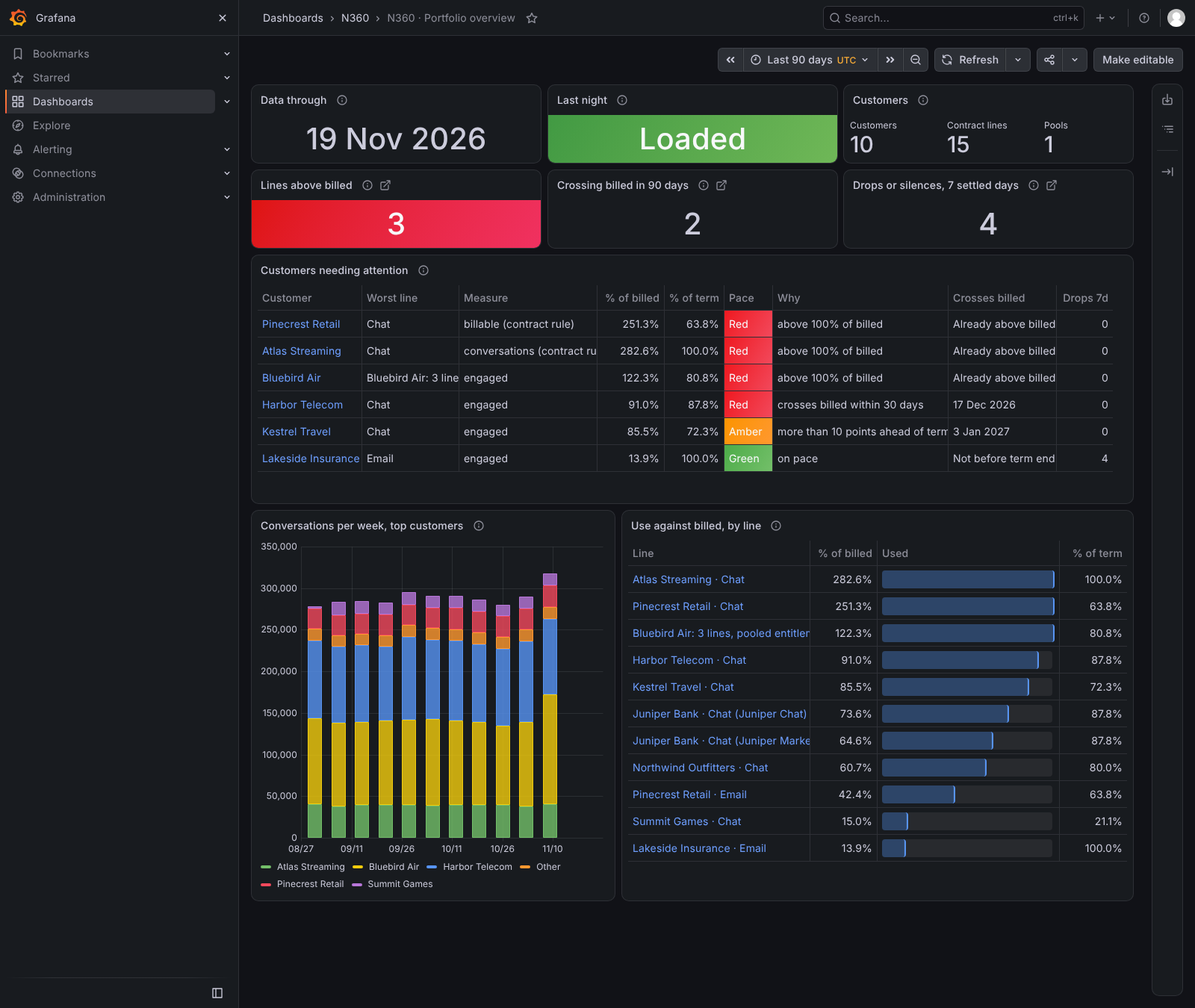
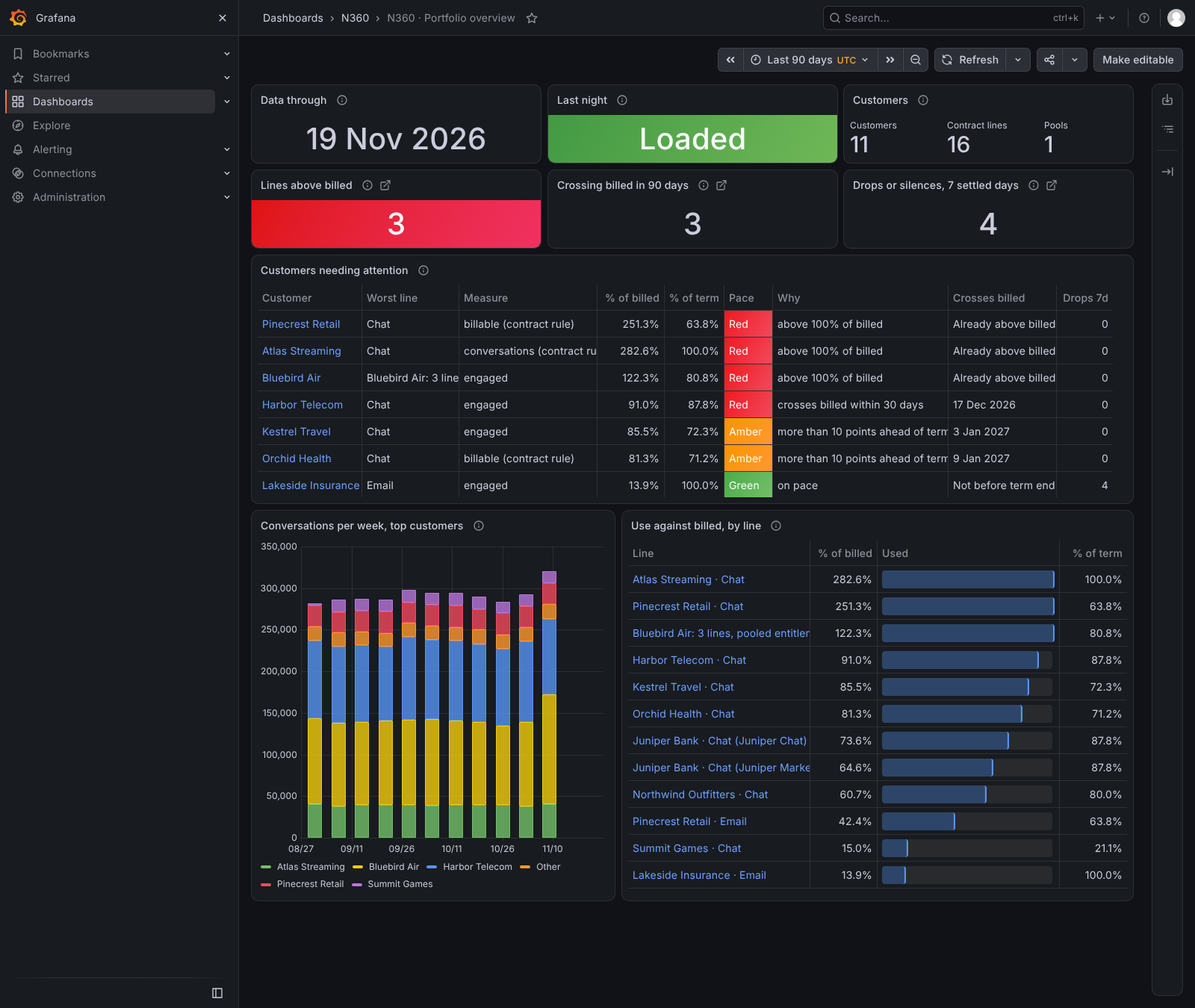
B15-B21 docs: CHANGES, README, 02/04/05/06/08, chat instructions, challenger report, screenshots
Claude-Session: https://claude.ai/code/session_01FH8A8xL2sSWvmn9qckrom6

diff --git a/code/grafana/build_dashboards.py b/code/grafana/build_dashboards.py
@@ -1001,13 +1001,13 @@ def forecast():
                    round(sumIf(mape * forecasts, horizon_days = 90) / sumIf(forecasts, horizon_days = 90), 1),
                    sumIf(forecasts, horizon_days = 30)
             FROM n360.v_forecast_accuracy WHERE {ACCT} HAVING sumIf(forecasts, horizon_days = 30) > 0
-        ) ORDER BY o, Line""", 0, 33, 12, 10,
+        ) ORDER BY o, Line""", 0, 33, 24, 13,
         describe('How far the stored forecast was off: forecasts made 30, 60 and 90 days earlier against what was then '
                  'used (mean absolute % error; lower is better). The forecast is evaluated as stored, never refitted. '
                  'Shows once forecasts 30 days old are stored.', 'n360.v_forecast_accuracy (n360.forecast_history)',
                  'Customer; lines and pools with a billed amount', 'every stored night'),
         field=field_config([*[override(c, ('unit', 'percent'), ('decimals', 1)) for c in ('30 days', '60 days', '90 days')],
-                            count_col('Forecasts'), width('Line', 300)],
+                            count_col('Forecasts'), width('Line', 380)],
                            noValue='Shows once forecasts 30 days old are stored'),
         may_be_empty='fewer than 30 nights of stored forecasts'))
     p.append(panel(10, 'Crossing date drift', 'table', f"""
@@ -1018,21 +1018,21 @@ def forecast():
         FROM n360.v_forecast_drift AS d
         INNER JOIN n360.v_line_pace AS pc ON pc.series_key = d.series_key
         INNER JOIN n360.account AS a ON a.account = d.account
-        WHERE d.{ACCT} ORDER BY ifNull(d.moved_7, 0)""", 12, 33, 12, 10,
+        WHERE d.{ACCT} ORDER BY ifNull(d.moved_7, 0)""", 0, 46, 24, 8,
         describe('Where each line\'s crossing date stood 7 and 30 stored nights ago, and how many days it has moved '
                  '(negative = earlier). Empty where the forecast had no crossing date then ("Not reported yet" = no '
                  'crossing before the term end, or not stored).', 'n360.v_forecast_drift (n360.forecast_history)',
                  'Customer; lines that cross billed now or did then', 'stored nights'),
         field=field_config([*[override(c, ('mappings', [empty_grey()])) for c in
                               ('Crosses billed', '7 nights ago', '30 nights ago', 'Moved, 7 nights', 'Moved, 30 nights')],
-                            width('Line', 240)], noValue='No line crosses billed'),
+                            width('Line', 380)], noValue='No line crosses billed'),
         may_be_empty='no line crosses billed'))
     p.append(panel(11, 'Challenger backtest (comparison only)', 'table', """
         SELECT concat(toString(horizon_days), ' days') AS Horizon,
                anyIf(mape, model = 'straight line') AS `Straight line (forecast of record)`,
                anyIf(mape, model = 'weekday HW') AS `Weekday Holt-Winters (challenger)`,
                maxIf(forecasts, model = 'straight line') AS Forecasts, toString(any(data_through)) AS `Data through`
-        FROM n360.v_challenger_backtest GROUP BY horizon_days ORDER BY horizon_days""", 0, 43, 24, 6,
+        FROM n360.v_challenger_backtest GROUP BY horizon_days ORDER BY horizon_days""", 0, 54, 24, 6,
         describe('Mean absolute % error of each model when backtested at weekly cutoffs over the loaded history (all '
                  'lines and pools). The straight line stays the forecast of record; the challenger replaces it only if '
                  'it has the better 30-day MAPE on most lines for 8 straight weeks AND Ryan approves (08). Run '
@@ -1093,12 +1093,16 @@ def anomalies():
         WHERE f.{ACCT} AND {kind_sql.replace('kind', 'f.kind').replace('${f.kind', '${kind')} AND {prov_sql.replace('provisional OR', 'f.provisional OR')} AND $__dateFilter(f.day)
         ORDER BY f.day DESC""", 0, 12, 24, 9,
         describe('Every flagged VA-day of the chosen kind in the time range, with its review outcome (real / expected / '
-                 'data issue; "Not reported yet" = not reviewed). Reviews are recorded with code/review_anomaly.py. '
+                 'data issue, or "Not reviewed"). Reviews are recorded with code/review_anomaly.py. '
                  'Click a VA to open it.', 'n360.v_anomaly_review (n360.v_va_day_anomaly, n360.anomaly_log)',
                  'Customer; Kind; Include provisional', 'dashboard time range'),
         field=field_config([hidden('drill'), count_col('Actual'), count_col('Expected'), override('z', ('decimals', 1)),
-                            override('Review', ('mappings', label_colours(REVIEW_LABEL) + [empty_grey()]),
-                                     ('custom.cellOptions', {'type': 'color-text'})), width('Review', 110),
+                            override('Note', ('mappings', [{'type': 'special', 'options': {'match': 'null', 'result': {'text': '', 'index': 0}}}])),
+                            override('Review', ('mappings', label_colours(REVIEW_LABEL) + [{'type': 'special', 'options': {
+                                'match': 'null', 'result': {'text': 'Not reviewed', 'color': COLOUR['grey'], 'index': 9}}}]),
+                                     ('custom.cellOptions', {'type': 'color-text'})), width('Review', 100),
+                            width('Day', 110), width('Customer', 150), width('VA', 170), width('Actual', 70),
+                            width('Expected', 80), width('z', 60), width('Kind', 100), width('Status', 90),
                             override('Status', ('mappings', label_colours({'Provisional': ('Provisional', 'amber'),
                                                                           'Settled': ('Settled', 'red')})),
                                      ('custom.cellOptions', {'type': 'color-text'})),
@@ -1117,18 +1121,18 @@ def anomalies():
                            noValue='No cross-account events'), may_be_empty='no cross-account event in the range'))
     p.append(panel(9, 'Other signals: containment, measure, pace, freshness', 'table', f"""
         SELECT v2.signal AS Signal, ifNull(ac.display_name, '') AS Customer, v2.subject AS Subject, {date_sql('v2.period')} AS `When`,
-               v2.value AS Value, v2.usual AS Usual, v2.detail AS Detail
+               v2.value AS `This period`, v2.usual AS Usual, v2.detail AS Detail
         FROM n360.v_anomaly_v2 AS v2 LEFT JOIN n360.account AS ac ON ac.account = v2.account
         WHERE (v2.account = '' OR v2.{ACCT}) AND v2.period > {DATA_THROUGH_SQL} - 60
         ORDER BY v2.period DESC""", 0, 35, 24, 7,
         describe('Anomaly detection v2 (05): a VA\'s weekly containment more than 10 points below its 8-week median '
                  '(on 200+ engaged); a rule line\'s measure share of engaged more than 20 points from its usual level; '
-                 'a crossing date moved more than 14 days earlier overnight; a source 2+ days behind. Value and Usual '
-                 'are % (days for pace change). Thresholds in n360.settings. Complete weeks only.',
+                 'a crossing date moved more than 14 days earlier overnight; a source 2+ days behind. "This period" and '
+                 '"Usual" are % (days moved, for pace change). Thresholds in n360.settings. Complete weeks only.',
                  'n360.v_anomaly_v2 (v_containment_week, v_measure_gap_week, v_forecast_change, v_source_freshness)',
                  'Customer', 'the 60 days to the data-through day'),
-        field=field_config([width('Signal', 140), width('Customer', 140), width('When', 110), width('Value', 70),
-                            width('Usual', 70), override('Usual', ('mappings', [{'type': 'special', 'options': {
+        field=field_config([width('Signal', 140), width('Customer', 140), width('When', 110), width('This period', 95),
+                            width('Usual', 80), width('Subject', 260), override('Usual', ('mappings', [{'type': 'special', 'options': {
                                 'match': 'null', 'result': {'text': '', 'index': 0}}}]))],
                            noValue='No other signals in the last 60 days'),
         may_be_empty='no v2 signal in the last 60 days'))

diff --git a/docs/04_DASHBOARDS.md b/docs/04_DASHBOARDS.md
@@ -46,8 +46,8 @@ detail to build from. Build against the spec. Ryan will reconcile with the appro
 | Red | Above 100% of billed, or crossing billed within 30 days |
 | Grey | Not measurable, not implemented, or not read |
 
-The view decides the colour (decided 24 Nov 2026): `n360.v_line_pace` holds the four thresholds at its top, the
-only place they exist. `build_dashboards.py` maps the view's `pace` label to a display colour (`PACE_LABEL`).
+The view decides the colour (decided 24 Nov 2026): `n360.v_line_pace` reads the four thresholds from `n360.settings`,
+the one view that holds every proposed threshold. `build_dashboards.py` maps the view's `pace` label to a display colour (`PACE_LABEL`).
 
 ## 1. Portfolio overview · `n360-overview` (BUILT 24 Nov 2026, B6)
 Question: which customers need attention this week, and why? Audience: leadership.
@@ -89,12 +89,12 @@ Stats: status (Normal / Went silent / …), conversations 30d, typical weekday (
 Data through, lines above billed, contract lines table, pools, daily use per line, containment per VA weekly, with pace colours, data links, header and Back link. Fixed: lines above billed now counts the pool; not measurable lines are not plotted; "Contract unit" says "Sheet terms" where no SOW overrides; thousands separators, dates as "4 Dec 2026", clean series names.
 
 ## 6. Forecast and runway · `n360-forecast` (BUILT, B11)
-Differences: the runway's contract-end tick is a change of shade (dark after the term end). Forecast accuracy is a note until `forecast_history` exists (B15).
+Differences: the runway's contract-end tick is a change of shade (dark after the term end). Forecast accuracy (6.5) and crossing-date drift (6.6) built from `forecast_history` (B15–B16), plus a challenger backtest panel (B21).
 
 Stats: crossing in 30 / 60 / 90 days, already above billed, step changes. Panels: runway timeline (one lane per line, bar from today to runs-out date, tick at contract end; colours: red crosses ≤30 days, blue crosses before term end, grey runs out after term end); runway table (line, used, billed, rate, runs out, term ends, note; flag when the term end has already passed); step changes table (last-30 vs term %, "rising"/"falling"/"stopped"); forecast accuracy (needs `forecast_history`; show a note until 30 nights).
 
 ## 7. Anomalies · `n360-anomalies` (BUILT, B12)
-Differences: the heatmap is a state timeline (one lane per flagged VA); not-scored days are blank. Review column is "Not reported yet" until the anomaly log (B19). Cross-account events are split by direction (spikes vs drops/silences).
+Differences: the heatmap is a state timeline (one lane per flagged VA); not-scored days are blank. Review column from the anomaly log (B19: "Not reviewed" until recorded with `code/review_anomaly.py`); flag quality per week; anomaly v2 signals (B20). Cross-account events are split by direction (spikes vs drops/silences).
 
 Controls: kind (drops and silences / spikes), include provisional (No default / Yes). Stats: drops, silences, spikes (7 settled days), provisional count. Panels: heatmap VA × day (30 days, VAs flagged in the window; colour by z: red ≤ −4 or silent, dark red −4..−2, neutral, dark blue 2..4, blue ≥ 4, near-black not scored; provisional columns faded); anomaly feed (day, customer, VA, actual, expected, z, kind, status, review) with VA drill; same-day events across customers (grouped); settled flags per week (stacked: drops+silences, spikes).
 
@@ -112,6 +112,6 @@ Engine version per VA (green = V8 or later); V8 playbooks vs legacy intents; pla
 Tickets by product area; top asks (several customers wanting the same thing); tickets by customer; "Not tagged yet" list (tagged by hand, never automatically).
 
 ## 11. Pipeline health · `n360-pipeline` (BUILT, B14)
-Differences: "ran, not loaded" (orange) cannot show: a run that errors before logging (loader exit 2) writes nothing to `runs`, so it shows as "no run". Hover shows the status, not the failed checks (they are in "Why nights stopped").
+Differences: "ran, not loaded" (orange) cannot show: a run that errors before logging (loader exit 2) writes nothing to `runs`, so it shows as "no run". Hover shows the status, not the failed checks (they are in "Why nights stopped"). Freshness history per night (B17).
 
 Stats: last night result, data through, nights loaded of last 14, checks passed on last load, stale sources. Panels: runs, last 14 nights (one block per night: loaded green, stopped red, ran-not-loaded orange, no run grey; hover shows reason); why nights stopped (table); source freshness (last day, days behind: amber 2, red 3); contract measure mix (lines per measure; rules not live).

diff --git a/CHANGES.md b/CHANGES.md
@@ -1,3 +1,37 @@
+# CHANGES · 24 Nov 2026 · B15–B21 (history, accuracy, freshness, alerts, review log, anomaly v2, challenger)
+
+**The backlog is done: every item B1–B23 is built and tested on synthetic data.** What is left is company-side
+work and the open questions in `08`.
+
+| Item | What was built | Tested |
+|---|---|---|
+| Settings | `n360.settings`: every proposed threshold in one view (pace, anomaly, freshness, engine, asks, v2); all views read it | View tests unchanged |
+| B15 | `forecast_history`, copied by `load.py` from the forecast of record after each swap (no pipeline change); optional backfill file; generator `--forecast-backfill DAYS` | One row per line/pool per loaded night (13 of 14 nights; the refused night has none) |
+| B16 | `v_forecast_accuracy` (MAPE at 30/60/90 days: the stored forecast evaluated, never refitted), `v_forecast_change`, `v_forecast_drift`; Forecast panels 6.5, 6.6 | Harbor Chat MAPE recomputed by hand in Python matches the view |
+| B17 | `source_freshness` (per night); Pipeline "Days behind, night by night"; generator `--stale SOURCE=DAYS` | 2 days behind → amber, 3 → red |
+| B18 | 7 alert rules as code (`build_alerts.py` → `provisioning/alerting/`): load failed, data stale, source stale, VA silent/dropped, cross-account event, newly over billed, crossing soon; placeholder contact points routed by audience | Rule queries checked after nights 7, 9, 11, 12 and final, plus two stale cases. A provisional-only silence does not fire. In Grafana 13.3.1 all 7 load healthy; Lakeside, Data stale and (after a bad night) Load failed fire |
+| B19 | `anomaly_log` (the nightly load never touches it), `code/review_anomaly.py`, `v_anomaly_review` (newest review wins), `v_flag_quality`; Anomalies "Review" and "Flag quality per week" | Outcomes join back to flags; week of 9 Nov: 3 reviewed, 1 real, 1 expected, 1 data issue |
+| B20 | `v_containment_week`, `v_measure_gap_week`, `v_anomaly_v2` (plus pace change and freshness); Anomalies "Other signals" | New synthetic customer Orchid Health carries the planted cases: exactly 3 signals, none elsewhere |
+| B21 | `code/forecast/challenger.py`: weekday Holt-Winters against the straight line at weekly cutoffs; writes `forecast_challenger` and `docs/10_CHALLENGER_BACKTEST.md`; Forecast panel | CI fails if `n360.forecast` changes (checksum). Result: the challenger is worse overall (90 days: 3.9% vs 1.3% MAPE) but better on most lines at 30 days for 6 straight weeks; not adopted |
+
+**Bugs found on the way (fixed):**
+- `runs.loaded_at` has one-second precision, so loads in the same second tied and "the latest run" could be an older night (now broken by `data_date`). Found by server-mode CI.
+- Two reviews of one flag in the same second tied the same way (`anomaly_log.reviewed_at` is now milliseconds).
+- Alias collisions and a correlated join that ClickHouse refuses.
+
+**Synthetic data:** added **Orchid Health** (anomaly v2 cases). Existing customers' numbers are unchanged in multi-night
+mode; customer count is now 11.
+
+**New open questions in `08`:** alert recipients and timing (placeholders now); anomaly v2 thresholds; challenger
+settings; who may record reviews.
+
+| Check | Result |
+|---|---|
+| `ci.sh chdb`, `ci.sh server` | Pass: loads, all view tests (B5, B15, B16, B19, B20, Phase 2), alert scenarios, stale scenarios, challenger checksum, dashboards and alert rules regenerate identically, every panel query as Grafana's read-only user |
+| Grafana 13.3.1 | Forecast, Anomalies, Pipeline render (screenshots updated); alert rules provisioned and evaluated |
+
+---
+
 # CHANGES · 24 Nov 2026 · all 11 dashboards (B7–B14, B10, Phase 2 B22–B23)
 
 **Every dashboard in `04` is built, rendered in Grafana 13.3.1 on synthetic data, and every drill-down link was

diff --git a/README.md b/README.md
@@ -38,7 +38,12 @@ anomaly detection and forecasting built in.
 | Dashboard generator: **all 11 dashboards** | `code/grafana/build_dashboards.py` → `code/grafana/dashboards/*.json` | Built and rendered in Grafana 13.3.1 with plugin 4.23.5 on synthetic data; every drill-down link clicked. Phase 2 (Adoption, Requests) on a proposed design |
 | Building-block test | `code/grafana/test_build.py` | Settings written once; description shape; sample header, links and colours run and render |
 | Panel query test | `code/grafana/test_panels.py` | Runs every panel and variable query with macros expanded |
-| Synthetic data, one night or N nights | `sample_data/generate_synthetic.py` (`--nights`, `--bad-night`) | Done; 14 nights → 13 loaded, 1 refused |
+| Synthetic data, one night or N nights | `sample_data/generate_synthetic.py` (`--nights`, `--bad-night`, `--forecast-backfill`, `--stale`) | Done; 14 nights → 13 loaded, 1 refused |
+| Forecast history and accuracy (B15–B16) | `forecast_history`, `v_forecast_accuracy` | Built; Forecast panels 6.5, 6.6 |
+| Alert rules as code (B18) | `code/grafana/build_alerts.py` → `provisioning/alerting/`; `test_alerts.py` | 7 rules load and fire in Grafana on synthetic failures; recipients are placeholders |
+| Anomaly review log (B19) | `code/review_anomaly.py`, `anomaly_log` | Built; Anomalies feed and weekly flag quality |
+| Anomaly detection v2 (B20) | `v_anomaly_v2` | Built; planted cases caught, no false positives |
+| Challenger forecast (B21) | `code/forecast/challenger.py`, `docs/10_CHALLENGER_BACKTEST.md` | Backtest only; the forecast of record is unchanged |
 | CI | `.github/workflows/ci.yml`, `code/ci.sh` | Steps pass locally (chdb and server 25.8); not yet run on GitHub |
 | Chat with the data | `docs/09_CHAT.md`, `chat/`, `code/grafana/mcp_service_account.sh` | Tested on synthetic through Grafana; real data is an open question |
 
@@ -54,6 +59,7 @@ anomaly detection and forecasting built in.
 | `docs/06_BACKLOG.md` | What to build next, in order, with acceptance criteria |
 | `docs/07_WORKING_RULES.md` | How Ryan wants work done. Non-negotiable |
 | `docs/08_DECISIONS.md` | Decided, proposed, and open questions |
+| `docs/10_CHALLENGER_BACKTEST.md` | Challenger vs straight-line backtest (synthetic), regenerated by `code/forecast/challenger.py` |
 | `docs/09_CHAT.md` | Chatting with the data through Grafana's MCP server: setup, locks, test |
 
 ## First 15 minutes

diff --git a/docs/08_DECISIONS.md b/docs/08_DECISIONS.md
@@ -26,7 +26,7 @@
 
 | Item | Proposal |
 |---|---|
-| Pace colours (values at the top of `v_line_pace`) | Green ≤ term + 10 pts; amber > term + 10 or crossing ≤ 60 d; red > 100% or crossing ≤ 30 d; grey not measurable / not implemented / not read |
+| Pace colours (values in `n360.settings`) | Green ≤ term + 10 pts; amber > term + 10 or crossing ≤ 60 d; red > 100% or crossing ≤ 30 d; grey not measurable / not implemented / not read |
 | Anomaly thresholds | Same weekday 8 weeks; z ≤ −4 / ≥ 4; min median 20; provisional 3 days |
 | Alert routing and timing | As in `05_ANOMALY_AND_FORECAST.md` |
 | Challenger adoption bar | Better 30-day MAPE on most lines for 8 straight weeks, plus Ryan's approval |
@@ -47,4 +47,8 @@
 | Does the pipeline count usage after a line's end date? (synthetic does: Atlas 282.6% all days vs 268.4% within term) | Views follow `reported_measured` as given |
 | Pace for an entitlement whose term has ended (synthetic: Lakeside ended 31 Oct at 13.9% of billed shows green "on pace") | `v_line_pace` reports `term_ended`; the colour follows the proposed rule, which says nothing about ended terms |
 | Cross-account events: should spikes and drops on the same day be one event or two? | Built as two (by direction); one line to change |
+| Who receives alerts, and when (contact points are `example.invalid` placeholders; daily / weekly timing approximated by repeat intervals) | Set addresses and delivery windows in `build_alerts.py` |
+| Anomaly v2 thresholds (containment drop 10 pts on 200+ engaged; measure gap 20 pts; pace change 14 days) | Built as `05` says, in `n360.settings`, proposed |
+| Challenger model settings (Holt-Winters alpha 0.2, beta 0.01, gamma 0.2, 365-day fit) | First guesses; it does not beat the straight line overall on synthetic data (`10_CHALLENGER_BACKTEST.md`) |
+| Who may record anomaly reviews (loader user via `code/review_anomaly.py`; Grafana OSS cannot write) | Fine for one owner; a team needs its own way in |
 | Term-end convention: synthetic ends a 12-month line on the last day of the month before its start month (29 Jan start → 31 Dec end; pool ends 28 Jan) | Check against the contract sheet before trusting % of term |

diff --git a/docs/02_DATA_CONTRACT.md b/docs/02_DATA_CONTRACT.md
@@ -108,6 +108,11 @@ definition changes `rule_hash`.
 | `v_customer_attention` | One row per customer: worst entitlement by pace, counts of red and amber entitlements, drops and silences and spikes in the 7 newest settled days, provisional flags |
 | `v_anomaly_heat` | Heatmap band per VA-day for the Anomalies dashboard (watch band ±2; flags from `v_va_day_anomaly`) |
 | `v_source_freshness` | Days each source is behind the data-through day; green / amber (2) / red (3) |
+| `settings` | Every proposed threshold, one row (pace, anomaly, freshness, engine, asks, anomaly v2). Views read it |
+| `v_forecast_accuracy`, `v_forecast_change`, `v_forecast_drift` | Forecast MAPE at 30/60/90 days; night over night changes; crossing-date drift (B16) |
+| `v_anomaly_review`, `v_flag_quality` | Flags with their newest review; weekly flag quality (B19) |
+| `v_containment_week`, `v_measure_gap_week`, `v_anomaly_v2` | Anomaly detection v2 signals (B20) |
+| `v_challenger_backtest` | Newest challenger backtest MAPE per model and horizon (B21) |
 | `v_anomaly_events` | Cross-account events: the same settled day and direction (spikes, or drops and silences) flagged on 3 or more accounts |
 
 ## Keys and joins
@@ -132,6 +137,15 @@ definition changes `rule_hash`.
 | facts_end_on_last_day | A fact table does not end on the data-through day |
 | crosswalk_vas_known | A VA on a line has no VA row |
 | facts_not_empty | A core table is empty |
+
+## History and review tables (B15–B21, 24 Nov 2026; never swapped)
+
+| Table | Written by | Grain |
+|---|---|---|
+| `forecast_history` | `load.py` after each swap (copy of `forecast`), optional backfill file | Line or pool × night |
+| `source_freshness` | `load.py` after each swap (copy of `source`) | Source × night |
+| `anomaly_log` | `code/review_anomaly.py` (loader user) | Flag × review; newest wins |
+| `forecast_challenger` | `code/forecast/challenger.py` | Backtest prediction (run × model × series × cutoff × horizon) |
 
 ## Phase 2 tables (designed 24 Nov 2026, proposed; see `schema.sql`)
 

diff --git a/docs/05_ANOMALY_AND_FORECAST.md b/docs/05_ANOMALY_AND_FORECAST.md
@@ -24,7 +24,7 @@ first guesses; they are tuned monthly from review outcomes.
   spikes grouped apart from drops and silences).
 - The newest 0–2 days produce most false drops (data still settling). Provisional days never alert.
 
-## Anomaly detection v2 (planned; build and test on synthetic)
+## Anomaly detection v2 (built 24 Nov 2026, B20: `v_anomaly_v2`; thresholds in `n360.settings`; tested on planted synthetic cases)
 
 | Signal | Rule |
 |---|---|
@@ -48,7 +48,12 @@ SQL.** `generate_synthetic.py::forecast_row` reproduces it exactly, so you can s
 | Crosses billed on | runs-out date if before contract end |
 | Flags | Early term (< 60 days history) · Step change (last-30 rate vs term average differs > 50%) · Already above billed · Projected to exceed billed by a date |
 
-## What to add (backlog items F1–F4)
+## What to add (backlog items F1–F4) — built 24 Nov 2026 on synthetic
+
+F1 `forecast_history` (B15, copied by `load.py` each loaded night), F2 accuracy (B16, `v_forecast_accuracy`,
+`v_forecast_drift`), F3 challenger backtest (B21, `code/forecast/challenger.py`, report in `10_CHALLENGER_BACKTEST.md`).
+F4 ranges is not built (the challenger gives no interval yet).
+
 
 1. **`forecast_history`**: store every night's forecast per line and pool. Without it nothing can be checked.
 2. **Accuracy**: for forecasts made 30, 60, 90 days ago, compare predicted cumulative use with actual; MAPE per line and overall; how far crossing dates moved.
@@ -58,7 +63,7 @@ SQL.** `generate_synthetic.py::forecast_row` reproduces it exactly, so you can s
 Forecasts never use engaged where a rule applies, never sum lines outside a confirmed pool, and
 say "Not reported yet" for lines that are not measurable or not implemented.
 
-## Alerting (planned; Grafana alert rules provisioned from code)
+## Alerting (built 24 Nov 2026, B18: `code/grafana/build_alerts.py` → `provisioning/alerting/`; contact points are placeholders)
 
 | Alert | Condition | To | When |
 |---|---|---|---|

diff --git a/chat/n360_chat_instructions.md b/chat/n360_chat_instructions.md
@@ -16,7 +16,8 @@ anything unusual is happening. You can read data; you cannot change it.
    or pool, with `pace_reason`) and `n360.v_customer_attention` (one row per customer); for anomalies
    `n360.v_va_day_anomaly`, and `n360.v_anomaly_events` for cross-account events; for containment
    `n360.v_va_containment_day`; for runway `n360.v_line_pace.runway` and `exhaust_date`; for pipeline
-   freshness `n360.v_source_freshness`. Phase 2 tables (`v_va_config_latest`, `ps_ticket`, `v_top_asks`, ...) are a
+   freshness `n360.v_source_freshness`; forecast accuracy `n360.v_forecast_accuracy`; reviewed flags
+   `n360.v_anomaly_review`; other anomaly signals `n360.v_anomaly_v2`. Thresholds are in `n360.settings` (proposed). Phase 2 tables (`v_va_config_latest`, `ps_ticket`, `v_top_asks`, ...) are a
    proposed design: say so when you use them. Use `query_sql` on data source uid `n360-clickhouse`.
 3. **Raw tables last** (`va_day`, `line_day`, `contract_line`), and only to break a view's number
    down, never to recompute it a different way.

diff --git a/docs/06_BACKLOG.md b/docs/06_BACKLOG.md
@@ -1,6 +1,7 @@
 # 06 · Backlog
 
-**Status 24 Nov 2026:** B1–B14, B3a done on synthetic data; B22–B23 built on a proposed design (field meanings open in `08`). Next: B15–B21. See `CHANGES.md`.
+**Status 24 Nov 2026:** every item B1–B23 (and B3a) done on synthetic data. What remains is company-side (below) and the
+open questions in `08`. See `CHANGES.md`.
 
 **Work top to bottom.** Every item is buildable and testable on synthetic data. "Done" means it
 meets its acceptance criteria on synthetic data, is listed in `CHANGES.md`, and any new table or
